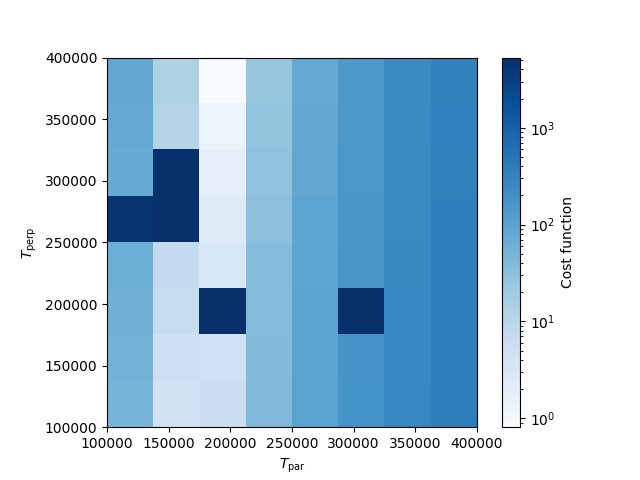
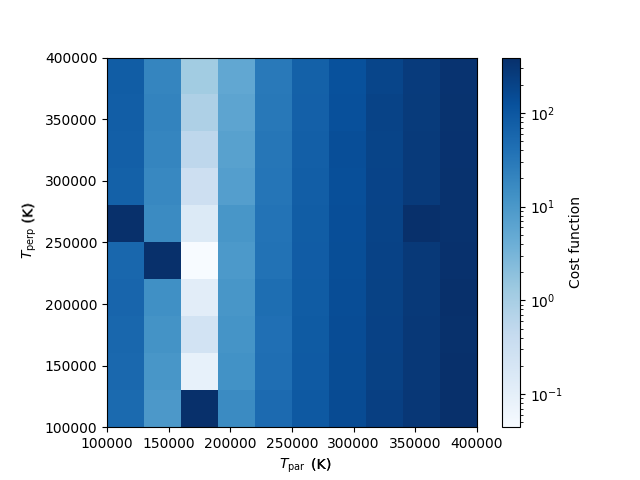
Heatmap and cost function plots

diff --git a/Temperature_Reconstruction.py b/Temperature_Reconstruction.py
@@ -33,23 +33,23 @@ variance_guess = 40
 
 total = spcf.Total_Fit(gv.E_plot, band_centres, total_data, fit_array, True,
                        mu1_guess, mu2_guess, variance_guess, 0.09, 0.01)
-n1 = 0.03
-n2 = 0.01
-
-q1 = spcf.Total_Fit(gv.E_plot, band_centres, data1, fit_array, False,
-                    mu1_guess, mu2_guess, variance_guess, n1, n2)
-q2 = spcf.Total_Fit(gv.E_plot, band_centres, data2, fit_array, False,
-                    mu1_guess, mu2_guess, variance_guess, n1, n2)
-q3 = spcf.Total_Fit(gv.E_plot, band_centres, data3, fit_array, False,
-                    mu1_guess, mu2_guess, variance_guess, 0.1*n1, 0.1*n2)
-q4 = spcf.Total_Fit(gv.E_plot, band_centres, data4, fit_array, False,
-                    mu1_guess, mu2_guess, variance_guess, 0.1*n1, 0.1*n2)
-
-# True values from simulated observations
-mu1, sg1 = q1[0], q1[3]
-mu2, sg2 = q2[0], q2[3]
-mu3, sg3 = q3[0], q3[3]
-mu4, sg4 = q4[0], q4[3]
+# n1 = 0.03
+# n2 = 0.01
+#
+# q1 = spcf.Total_Fit(gv.E_plot, band_centres, data1, fit_array, False,
+#                     mu1_guess, mu2_guess, variance_guess, n1, n2)
+# q2 = spcf.Total_Fit(gv.E_plot, band_centres, data2, fit_array, False,
+#                     mu1_guess, mu2_guess, variance_guess, n1, n2)
+# q3 = spcf.Total_Fit(gv.E_plot, band_centres, data3, fit_array, False,
+#                     mu1_guess, mu2_guess, variance_guess, 0.1*n1, 0.1*n2)
+# q4 = spcf.Total_Fit(gv.E_plot, band_centres, data4, fit_array, False,
+#                     mu1_guess, mu2_guess, variance_guess, 0.1*n1, 0.1*n2)
+#
+# # True values from simulated observations
+# mu1, sg1 = q1[0], q1[3]
+# mu2, sg2 = q2[0], q2[3]
+# mu3, sg3 = q3[0], q3[3]
+# mu4, sg4 = q4[0], q4[3]
 mu, sg = total[0], total[3]
 radial_temp = total[6]
 print("radial_temp: ", radial_temp)
@@ -62,21 +62,21 @@ def cost_func(t_perp_guess, t_par_guess):
     # get estimated values
     load = False
     estimated_data = SPC.main(t_perp_guess, t_par_guess, comment, load)
-    quad1, quad2, quad3, quad4 = estimated_data[0], estimated_data[1], estimated_data[2], estimated_data[3]
+    # quad1, quad2, quad3, quad4 = estimated_data[0], estimated_data[1], estimated_data[2], estimated_data[3]
     tf = estimated_data[4]
     mu_estimate, sg_estimate = tf[0], tf[3]
-    mu1_estimate, sg1_estimate = quad1[0], np.abs(quad1[3])
-    mu2_estimate, sg2_estimate = quad2[0], np.abs(quad2[3])
-    mu3_estimate, sg3_estimate = quad3[0], np.abs(quad3[3])
-    mu4_estimate, sg4_estimate = quad4[0], np.abs(quad4[3])
+    # mu1_estimate, sg1_estimate = quad1[0], np.abs(quad1[3])
+    # mu2_estimate, sg2_estimate = quad2[0], np.abs(quad2[3])
+    # mu3_estimate, sg3_estimate = quad3[0], np.abs(quad3[3])
+    # mu4_estimate, sg4_estimate = quad4[0], np.abs(quad4[3])
 
     # calculate cost
-    # mu_cost = (mu - mu_estimate)**2
-    mu_cost = (mu1 - mu1_estimate)**2 \
-    + (mu2 - mu2_estimate)**2 + (mu3 - mu3_estimate)**2 + (mu4 - mu4_estimate)**2
-    # sg_cost = (sg - sg_estimate)**2
-    sg_cost = (sg1 - sg1_estimate)**2 \
-     + (sg2 - sg2_estimate)**2 + (sg3 - sg3_estimate)**2 + (sg4 - sg4_estimate)**2
+    mu_cost = (mu - mu_estimate)**2
+    # mu_cost = (mu1 - mu1_estimate)**2 \
+    # + (mu2 - mu2_estimate)**2 + (mu3 - mu3_estimate)**2 + (mu4 - mu4_estimate)**2
+    sg_cost = (sg - sg_estimate)**2
+    # sg_cost = (sg1 - sg1_estimate)**2 \
+     # + (sg2 - sg2_estimate)**2 + (sg3 - sg3_estimate)**2 + (sg4 - sg4_estimate)**2
 
     cost = 0.01*mu_cost + sg_cost
     return cost
@@ -92,9 +92,9 @@ def cost_func_wrapper(args):
 
 
 def heatmap():
-    temps = np.linspace(1e5, 4e5, 8).tolist()
+    temps = np.linspace(1e5, 4e5, 10).tolist()
     temp_combos = list(itertools.product(temps, temps))
-    indices = list(range(len(temp_combos)))
+    # indices = list(range(len(temp_combos)))
     # perp_array = np.linspace(0.5e5, 4e5, 1e2)
     # par_array = np.linspace(0.5e5, 4e5, 1e2)
     F = np.zeros((len(temps), len(temps)))
@@ -105,11 +105,10 @@ def heatmap():
     newcolors[0] = [1.0, 1.0, 1.0, 1.0]
     newcmp = matplotlib.colors.ListedColormap(newcolors)
 
-
     with mp.Pool() as pool:
-        for i, c in enumerate(pool.imap(cost_func_wrapper, temps)):
+        for i, c in enumerate(pool.imap(cost_func_wrapper, temp_combos)):
             F.flat[i] = c
-            print("\033[92mCompleted %d of %d\033[0m" % (i + 1, len(temps)))
+            print("\033[92mCompleted %d of %d\033[0m" % (i + 1, len(temp_combos)))
             if c == 0:
                 print("\033[91mFailed to converge sensibly for %d\033[0m" % (i + 1))
 
@@ -121,6 +120,27 @@ def heatmap():
     fig.gca().set_xlabel(r"$T_{\rm{par}}$")
     fig.gca().set_ylabel(r"$T_{\rm{perp}}$")
     fig.savefig("heatmap.png")
+
+
+def cost_func_1D():
+    temperatures = np.linspace(1e5, 4e5, 16)
+    M = []
+    T_list = []
+    with mp.Pool() as pool:
+        t_perp_list = [2.4e5] * len(temperatures)
+        for i, c in enumerate(pool.imap(cost_func_wrapper, zip(t_perp_list, temperatures))):
+            print("\033[92mCompleted %d of %d\033[0m" % (i + 1, len(temperatures)))
+            if c == 0:
+                print("\033[91mFailed to converge sensibly for %d\033[0m" % (i + 1))
+            else:
+                M.append(c)
+                T_list.append(temperatures[i])
+
+    fig3 = plt.figure("T par cost function")
+    fig3.gca().plot(T_list, M, marker='x')
+    fig3.gca().set_xlabel(r"$T_{\parallel}$ (K)")
+    fig3.gca().set_ylabel("Cost function")
+    fig3.savefig("1D_cost_func.png")
 
 
 def grad_descent(coeff, t_estimate):
@@ -154,10 +174,10 @@ def grad_descent(coeff, t_estimate):
     error = np.inf
     iteration = 0
     iter_list = [iteration]
-    epsilon = 0.01
+    epsilon = 1e-5
 
     while error > epsilon:
-        cost_grad_vec = grad_cost(0.1, T_new)
+        cost_grad_vec = grad_cost(0.01, T_new)
         print("BEFORE T_old, T_new:", T_old, T_new)
         T_new, T_old = (T_new - coeff * cost_grad_vec, T_new)
         print("AFTER  T_old, T_new:", T_old, T_new)
@@ -188,5 +208,6 @@ def grad_descent(coeff, t_estimate):
     return(T_new)
 
 
-grad_descent(np.array([5e11, 1e2]), radial_temp)
+grad_descent(np.array([1e7, 1e5]), radial_temp)
 # heatmap()
+# cost_func_1D()

diff --git a/SPC_Plot.py b/SPC_Plot.py
@@ -303,21 +303,21 @@ def Plot(E_plot, plot_total, is_core, plates,
         plt.plot(band_centres, quad3, 'gx', label='Quadrant 3')
         plt.plot(band_centres, quad4, 'b-', label='Quadrant 4')
         plt.ylabel("Current (nA)")
-        # q1, q2, q3, q4 = 0, 0, 0, 0
-        n = 0.1
-        
-        q1 = Total_Fit(E_plot, band_centres, quad1, fit_array, False,
-                       mu1_guess, mu2_guess, variance_guess,
-                       np.max(quad1), n*np.max(quad1))
-        q2 = Total_Fit(E_plot, band_centres, quad2, fit_array, False,
-                       mu1_guess, mu2_guess, variance_guess,
-                       np.max(quad2), n*np.max(quad2))
-        q3 = Total_Fit(E_plot, band_centres, quad3, fit_array, False,
-                       mu1_guess, mu2_guess, variance_guess,
-                       n*np.max(quad3), n*np.max(quad3))
-        q4 = Total_Fit(E_plot, band_centres, quad4, fit_array, False,
-                       mu1_guess, mu2_guess, variance_guess,
-                       n*np.max(quad3), n*np.max(quad3))
+        q1, q2, q3, q4 = 0, 0, 0, 0
+        # n = 0.1
+        #
+        # q1 = Total_Fit(E_plot, band_centres, quad1, fit_array, False,
+        #                mu1_guess, mu2_guess, variance_guess,
+        #                np.max(quad1), np.max(quad1))
+        # q2 = Total_Fit(E_plot, band_centres, quad2, fit_array, False,
+        #                mu1_guess, mu2_guess, variance_guess,
+        #                np.max(quad2), np.max(quad2))
+        # q3 = Total_Fit(E_plot, band_centres, quad3, fit_array, False,
+        #                mu1_guess, mu2_guess, variance_guess,
+        #                np.max(quad3), np.max(quad3))
+        # q4 = Total_Fit(E_plot, band_centres, quad4, fit_array, False,
+        #                mu1_guess, mu2_guess, variance_guess,
+        #                0.1*np.max(quad4), 0.01*np.max(quad4))
 
         plt.legend()
 

diff --git a/SPC_Fits.py b/SPC_Fits.py
@@ -134,5 +134,5 @@ def Total_Fit(E_plot, x_axis, data, fit_array, is_total,
     # plt.legend()
     # plt.show()
 
-    return p[1], parameters1[1], parameters2[1], sigma, sigma1, sigma2, \
+    return np.abs(p[1]), parameters1[1], parameters2[1], np.abs(sigma), sigma1, sigma2, \
         radial_temp
